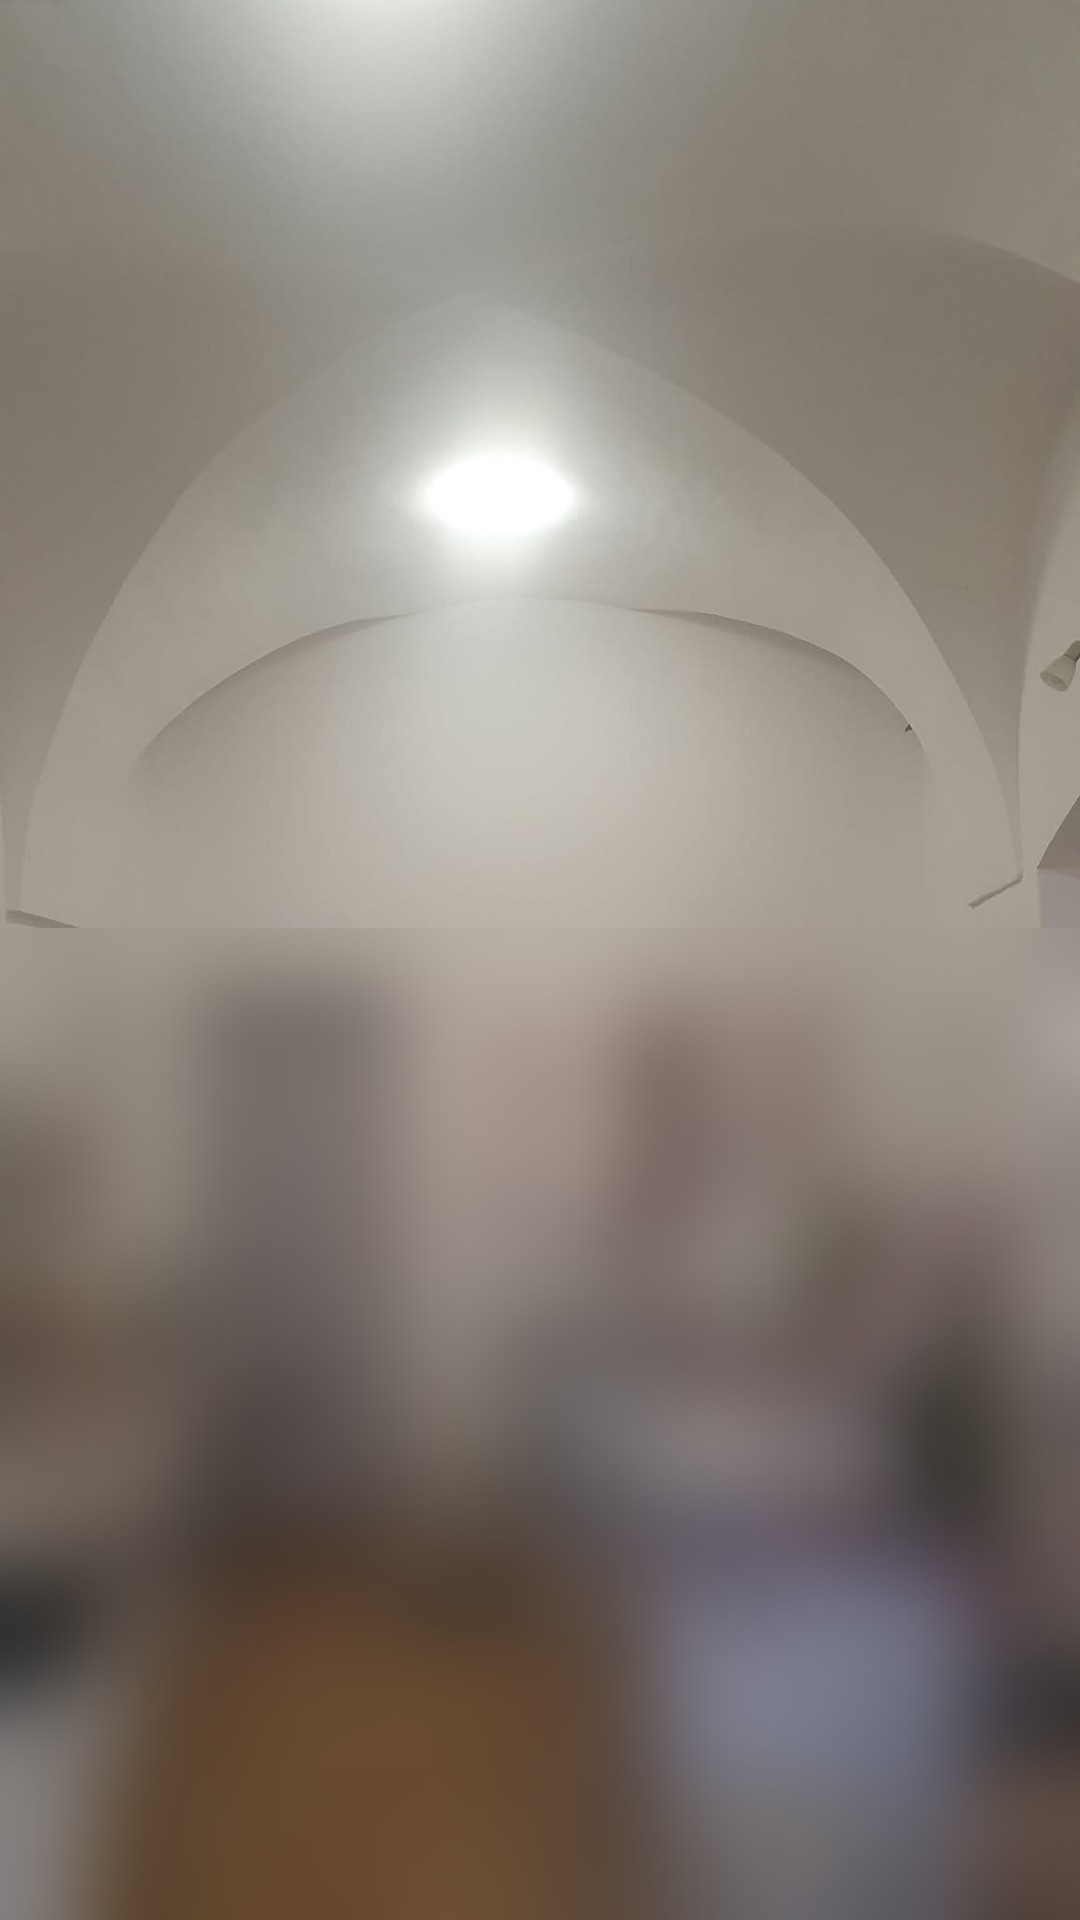
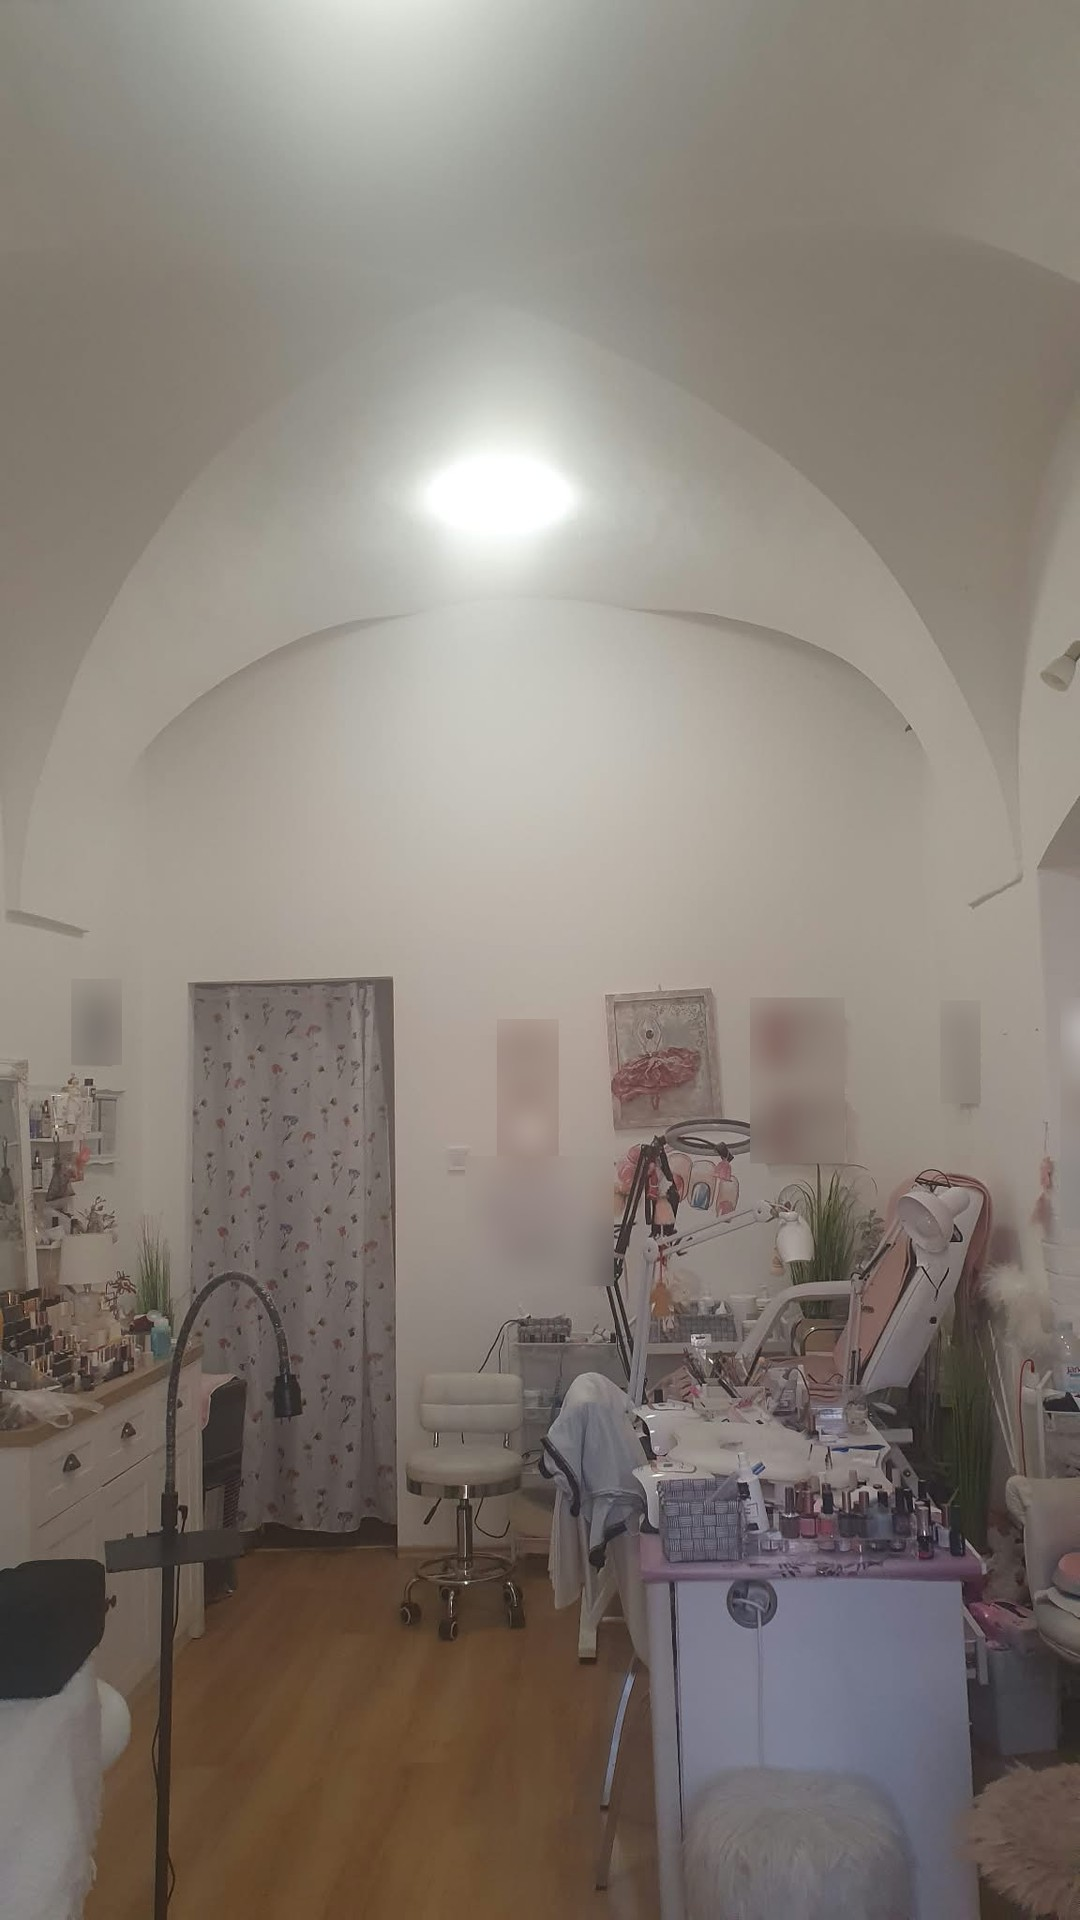
Show the old salon's clutter, blur only text-bearing items
Blur only the frames, certificates and wall sticker in the before photo,
and add a shade prop to PhotoScene so the first scene's text gradient
covers less of the photo.

Claude-Session: https://claude.ai/code/session_017KpoAPeckaGasrTX5G5h9w

diff --git a/videos/anita-promo/src/SzalonKeszul.tsx b/videos/anita-promo/src/SzalonKeszul.tsx
@@ -18,6 +18,7 @@ export const SzalonKeszul: React.FC = () => {
           title="Így kezdtük…"
           subtitle="Fő utca 17., Mosonmagyaróvár"
           accentColor={colors.gold}
+          shade={0.6}
         />
       </TransitionSeries.Sequence>
       <TransitionSeries.Transition
@@ -31,6 +32,7 @@ export const SzalonKeszul: React.FC = () => {
           title="Új tervek"
           subtitle="Kiürült, kitisztult"
           accentColor={colors.gold}
+          shade={1}
         />
       </TransitionSeries.Sequence>
       <TransitionSeries.Transition
@@ -44,6 +46,7 @@ export const SzalonKeszul: React.FC = () => {
           title="Lépésről lépésre"
           subtitle="Kezelőágy, lámpák, paravánok"
           accentColor={colors.gold}
+          shade={1}
         />
       </TransitionSeries.Sequence>
       <TransitionSeries.Transition
@@ -57,6 +60,7 @@ export const SzalonKeszul: React.FC = () => {
           title="Új színt kapott"
           subtitle="Meleg krém falak, boltíves mennyezet"
           accentColor={colors.gold}
+          shade={1}
         />
       </TransitionSeries.Sequence>
       <TransitionSeries.Transition
@@ -70,6 +74,7 @@ export const SzalonKeszul: React.FC = () => {
           title="Már csak a berendezés…"
           subtitle="Készül az új szalon"
           accentColor={colors.pink}
+          shade={1}
         />
       </TransitionSeries.Sequence>
       <TransitionSeries.Transition

diff --git a/videos/anita-promo/src/PhotoScene.tsx b/videos/anita-promo/src/PhotoScene.tsx
@@ -17,6 +17,7 @@ type PhotoSceneProps = {
   readonly title: string;
   readonly subtitle: string;
   readonly accentColor: string;
+  readonly shade: number;
   readonly style?: React.CSSProperties;
 };
 
@@ -26,6 +27,7 @@ const PhotoSceneInner: React.FC<PhotoSceneProps> = ({
   title,
   subtitle,
   accentColor,
+  shade,
   style,
 }) => {
   const frame = useCurrentFrame();
@@ -52,7 +54,7 @@ const PhotoSceneInner: React.FC<PhotoSceneProps> = ({
       <AbsoluteFill
         style={{
           background:
-            "linear-gradient(180deg, rgba(11,10,8,0) 45%, rgba(11,10,8,0.85) 75%, rgba(11,10,8,0.95) 100%)",
+            `linear-gradient(180deg, rgba(11,10,8,0) 45%, rgba(11,10,8,${0.85 * shade}) 75%, rgba(11,10,8,${0.95 * shade}) 100%)`,
         }}
       />
       <AbsoluteFill
@@ -135,6 +137,15 @@ const photoSceneSchema = {
     type: "color",
     default: colors.gold,
     description: "Accent color",
+  },
+  shade: {
+    type: "number",
+    default: 1,
+    min: 0,
+    max: 1,
+    step: 0.05,
+    description: "Text shade strength",
+    hiddenFromList: false,
   },
 } as const satisfies InteractivitySchema;
 

diff --git a/videos/anita-promo/src/AnitaPromo.tsx b/videos/anita-promo/src/AnitaPromo.tsx
@@ -26,6 +26,7 @@ export const AnitaPromo: React.FC = () => {
           title="Hangsúlyos tekintet"
           subtitle="Klasszikus, volume, lifting"
           accentColor={colors.gold}
+          shade={1}
         />
       </TransitionSeries.Sequence>
       <TransitionSeries.Transition
@@ -39,6 +40,7 @@ export const AnitaPromo: React.FC = () => {
           title="Minden alkalomra"
           subtitle="Nappali, alkalmi, menyasszonyi"
           accentColor={colors.pink}
+          shade={1}
         />
       </TransitionSeries.Sequence>
       <TransitionSeries.Transition

diff --git a/videos/anita-promo/src/Root.tsx b/videos/anita-promo/src/Root.tsx
@@ -35,6 +35,7 @@ export const RemotionRoot: React.FC = () => {
             title: "Hangsúlyos tekintet",
             subtitle: "Klasszikus, volume, lifting",
             accentColor: colors.gold,
+            shade: 1,
           }}
         />
         <Composition
